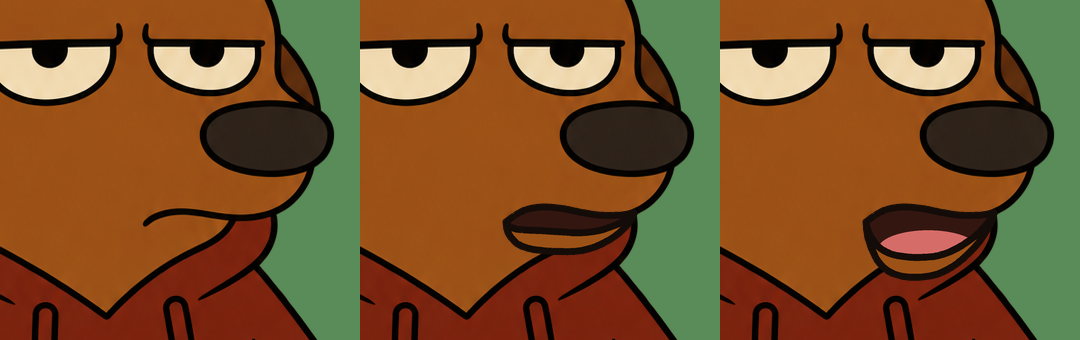
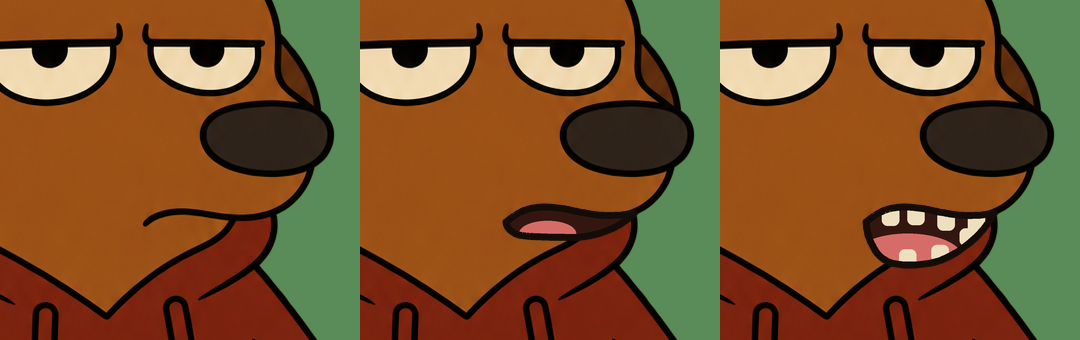
ごんべぇの口をオーナーの参考に合わせて描き直し（丸く開く口・舌・歯、下あごの帯はなし）
Claude-Session: https://claude.ai/code/session_01333n6uA2jivLvtwjGtdnde

Changed region(s): [[0.7944, 0.6176, 0.9167, 0.8235], [0.4583, 0.6471, 0.5806, 0.7647]]

diff --git a/renderer/rig/gonbe_mouth.py b/renderer/rig/gonbe_mouth.py
@@ -50,7 +50,12 @@ def _catmull(pts, n=80):
     return out
 
 
-def mouth(depth: float, tongue: bool) -> Image.Image:
+TEETH = (238, 224, 190, 255)
+
+
+def mouth(depth: float, tongue: bool, teeth: bool = False) -> Image.Image:
+    """上唇＝基本の絵の口の線。その下に、まるく開いた口（輪郭線つき）を描く。
+    下あごの帯は描かない（参考：オーナー提供の口を開けたごんべぇ）。"""
     base = Image.open(BASE)
     W, H = base.size
     img = Image.new("RGBA", (W * K, H * K), (0, 0, 0, 0))
@@ -58,24 +63,31 @@ def mouth(depth: float, tongue: bool) -> Image.Image:
     s = lambda pts: [(x * K, y * K) for x, y in pts]
     up = _catmull(UPPER)
     n = len(up)
-    # 下唇：両端（口角）は上唇とつながり、少し右寄りがいちばん深い
-    f = lambda t: math.sin(math.pi * t ** 0.85)
+    # 下の縁：口角どうしをつなぐ深い丸み。いちばん深いのは少し左寄り
+    f = lambda t: math.sin(math.pi * t ** 0.8)
     low = [(x, y + depth * f(i / (n - 1))) for i, (x, y) in enumerate(up)]
-    # 下あごの外側：下唇の少し下を、口角ではゼロになるようにまるく
-    jaw = [(x, y + 20 * math.sin(math.pi * (i / (n - 1)) ** 0.85) ** 0.7) for i, (x, y) in enumerate(low)]
-    d.polygon(s(low + jaw[::-1]), fill=FUR)
-    d.polygon(s(up + low[::-1]), fill=MOUTH_IN)
+    shape = up + low[::-1]
+    d.polygon(s(shape), fill=MOUTH_IN)
+    inner = Image.new("RGBA", img.size, (0, 0, 0, 0))
+    di = ImageDraw.Draw(inner)
     if tongue:
-        cx = up[int(n * 0.55)][0]
-        cy = low[int(n * 0.55)][1] - depth * 0.15
-        rx, ry = depth * 1.0, depth * 0.38
-        tg = Image.new("RGBA", img.size, (0, 0, 0, 0))
-        ImageDraw.Draw(tg).ellipse(((cx - rx) * K, (cy - ry) * K, (cx + rx) * K, (cy + ry) * K), fill=TONGUE)
-        clip = Image.new("L", img.size, 0)
-        ImageDraw.Draw(clip).polygon(s(up + low[::-1]), fill=255)
-        img.paste(tg, (0, 0), Image.composite(tg.getchannel("A"), Image.new("L", img.size, 0), clip))
-    for line in (up, low, jaw):
-        d.line(s(line), fill=INK, width=LINE * K, joint="curve")
+        i = int(n * 0.42)
+        cx, cy = low[i][0], low[i][1] - depth * 0.12
+        rx, ry = depth * 0.95, depth * 0.42
+        di.ellipse(((cx - rx) * K, (cy - ry) * K, (cx + rx) * K, (cy + ry) * K), fill=TONGUE)
+    if teeth:
+        tw, th = depth * 0.30, depth * 0.30
+        for tt in (0.30, 0.48, 0.66, 0.84):  # 上の歯
+            x, y = up[int(n * tt)]
+            di.rounded_rectangle(((x - tw / 2) * K, (y - 2) * K, (x + tw / 2) * K, (y + th) * K), int(tw * K / 3), fill=TEETH)
+        for tt in (0.42, 0.62, 0.80):       # 下の歯
+            x, y = low[int(n * tt)]
+            di.rounded_rectangle(((x - tw / 2) * K, (y - th * 0.9) * K, (x + tw / 2) * K, (y + 2) * K), int(tw * K / 3), fill=TEETH)
+    clip = Image.new("L", img.size, 0)
+    ImageDraw.Draw(clip).polygon(s(shape), fill=255)
+    img.paste(inner, (0, 0), Image.composite(inner.getchannel("A"), Image.new("L", img.size, 0), clip))
+    d.line(s(up + [up[-1]]), fill=INK, width=LINE * K, joint="curve")
+    d.line(s(low), fill=INK, width=LINE * K, joint="curve")
     for x, y in (up[0], up[-1]):
         d.ellipse(((x - LINE / 2) * K, (y - LINE / 2) * K, (x + LINE / 2) * K, (y + LINE / 2) * K), fill=INK)
     return img.resize((W, H), Image.LANCZOS)
@@ -84,8 +96,8 @@ def mouth(depth: float, tongue: bool) -> Image.Image:
 def main():
     os.makedirs(PARTS, exist_ok=True)
     os.makedirs(PREVIEW, exist_ok=True)
-    half = mouth(24, tongue=False)
-    opn = mouth(50, tongue=True)
+    half = mouth(30, tongue=True)
+    opn = mouth(58, tongue=True, teeth=True)
     half.save(os.path.join(PARTS, "mouth_half.png"))
     opn.save(os.path.join(PARTS, "mouth_open.png"))
     base = Image.open(BASE).convert("RGBA")
